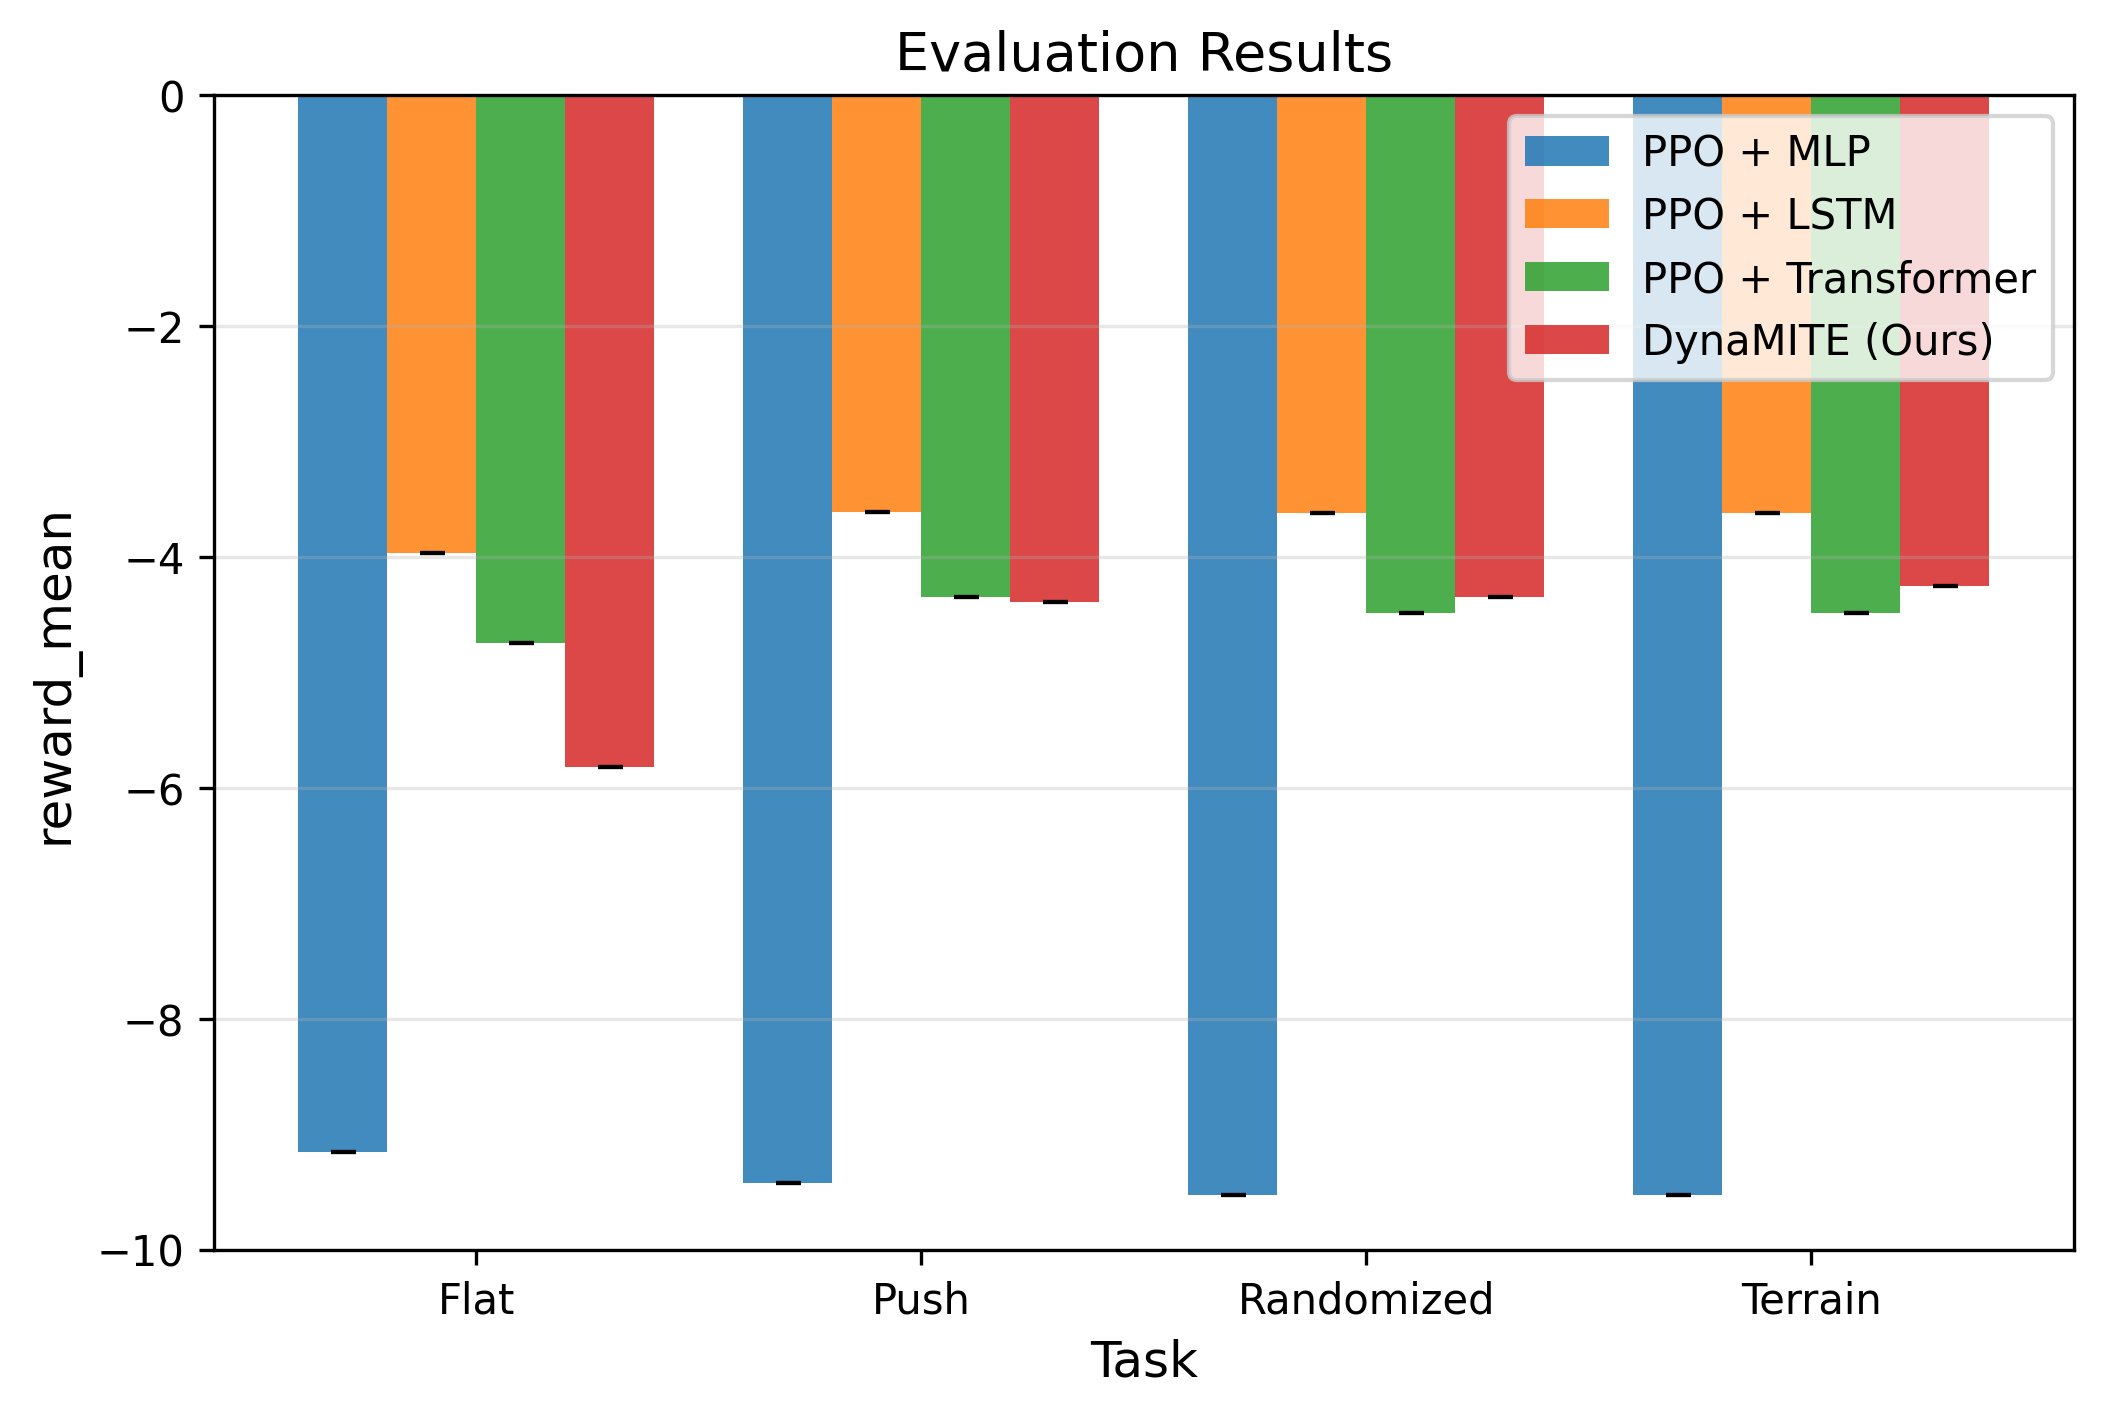
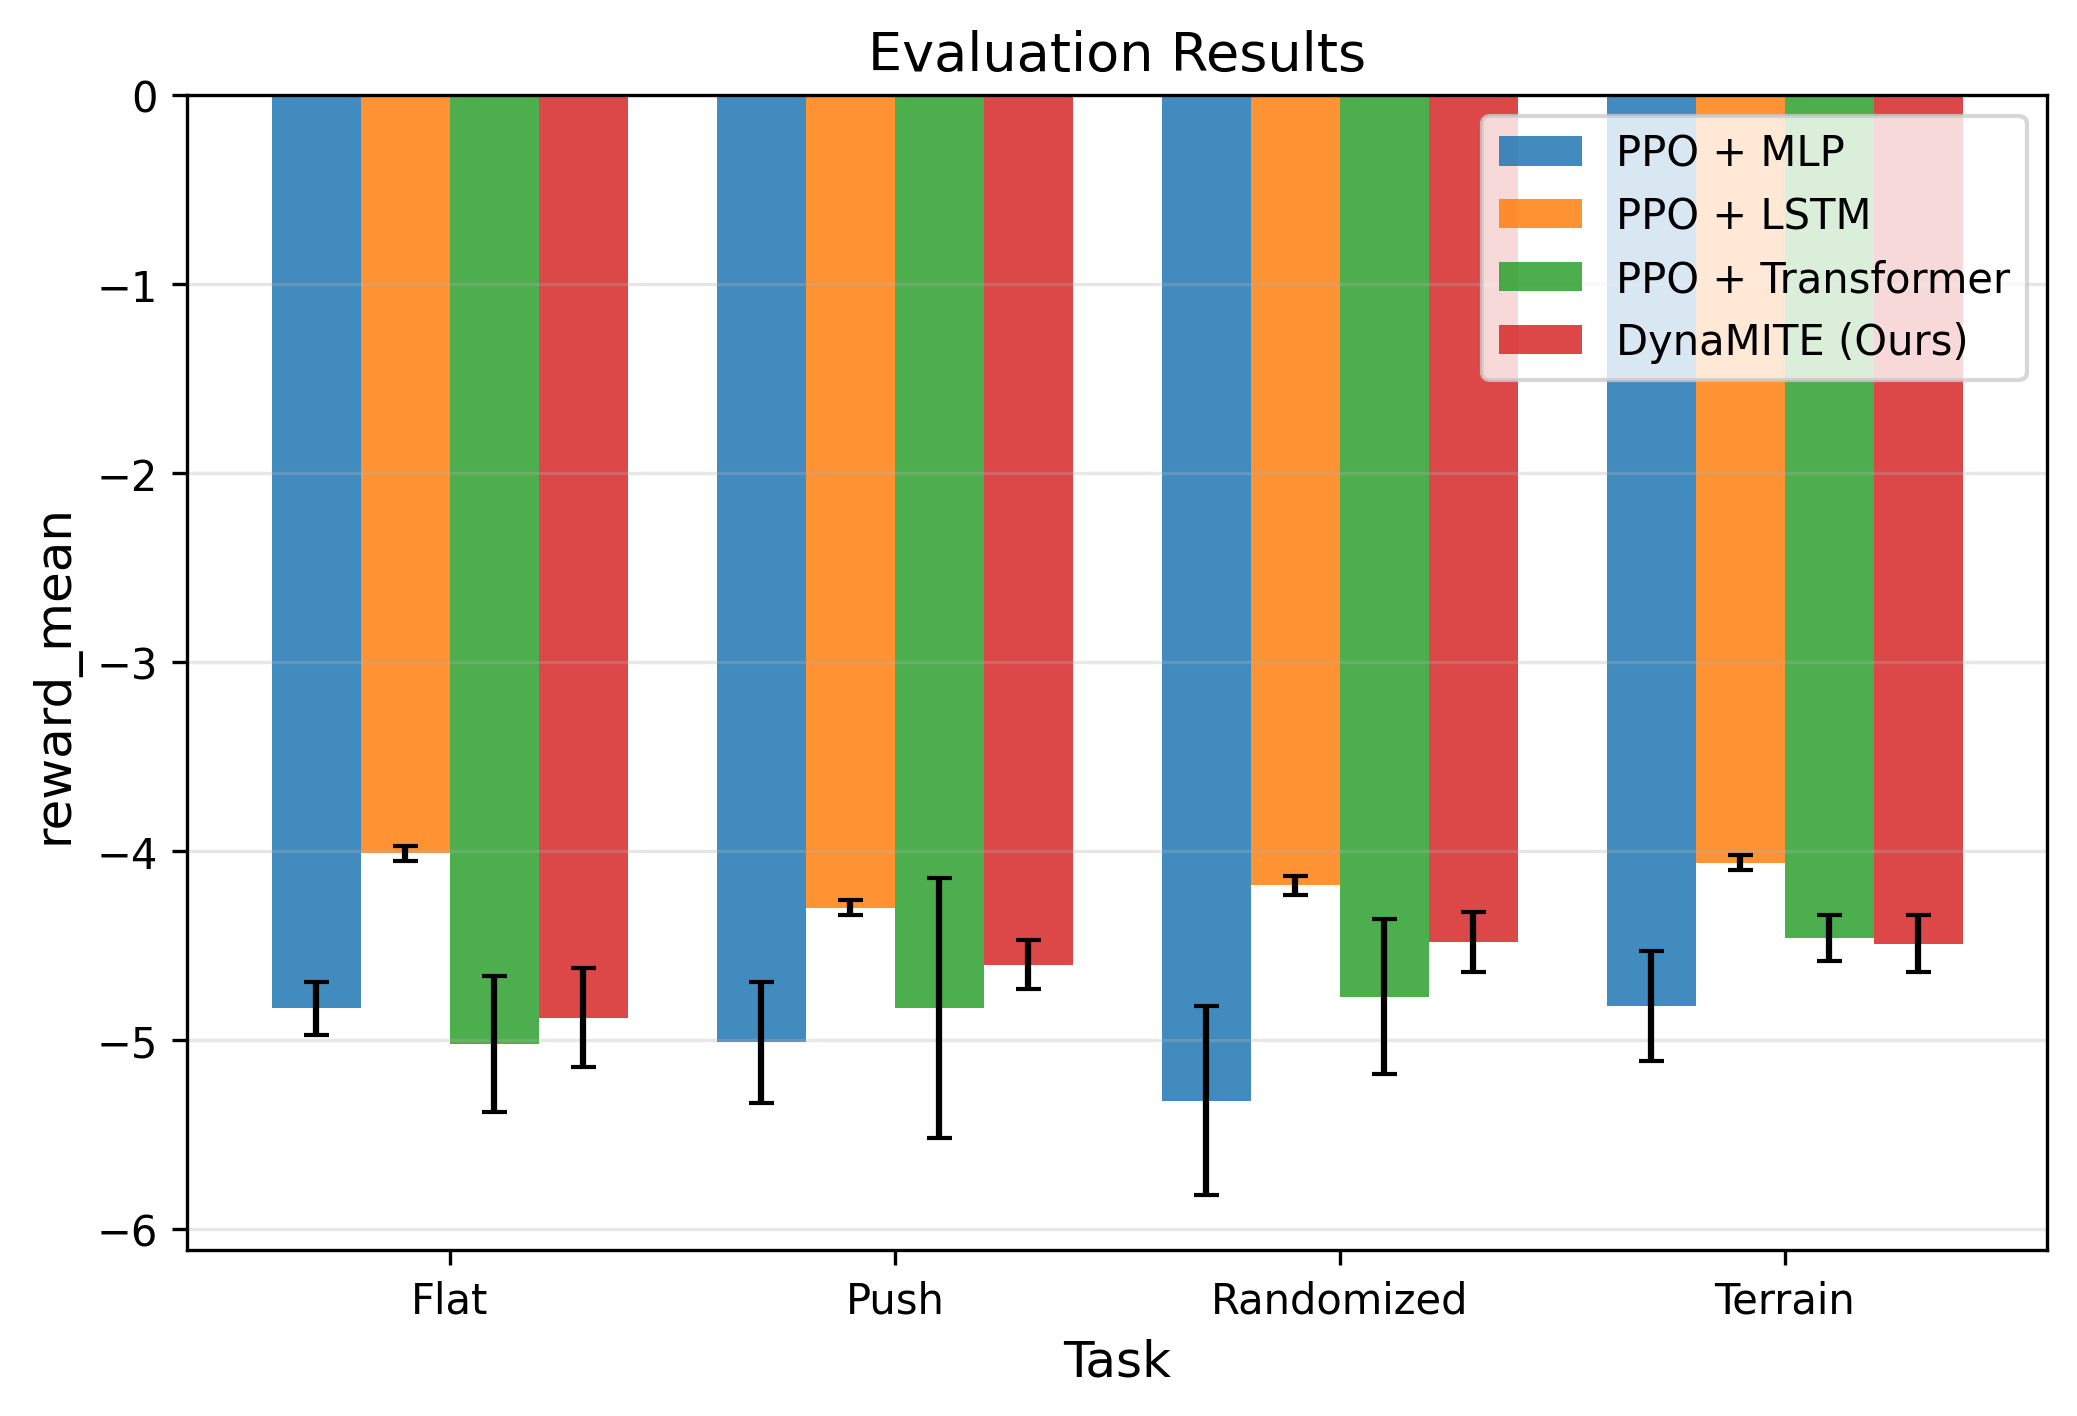
fixmismatch

diff --git a/scripts/plot_sweeps_multiseed.py b/scripts/plot_sweeps_multiseed.py
@@ -1,0 +1,109 @@
+#!/usr/bin/env python3
+"""
+Regenerate sweep_robustness_combined.png from multi-seed data.
+
+Uses results/sweeps_multiseed/ (3 seeds × 2 models × 3 sweep types)
+to match README's OOD sweep tables exactly.
+"""
+
+import json
+import sys
+from pathlib import Path
+
+sys.path.insert(0, str(Path(__file__).resolve().parent.parent))
+
+try:
+    import matplotlib
+    matplotlib.use("Agg")
+    import matplotlib.pyplot as plt
+    import numpy as np
+except ImportError:
+    print("ERROR: matplotlib and numpy required")
+    sys.exit(1)
+
+
+MODEL_LABELS = {"dynamite": "DynaMITE (Ours)", "lstm": "LSTM"}
+MODEL_COLORS = {"dynamite": "#d62728", "lstm": "#ff7f0e"}
+MODEL_MARKERS = {"dynamite": "D", "lstm": "s"}
+
+SWEEP_TITLES = {
+    "friction": "Friction Coefficient",
+    "action_delay": "Actuation Delay (steps)",
+    "push_magnitude": "Push Magnitude (m/s)",
+}
+
+
+def extract_x(values):
+    """Convert sweep values (may be ranges) to x-axis values."""
+    x = []
+    for v in values:
+        if isinstance(v, list):
+            x.append(v[0] if v[0] == v[1] else (v[0] + v[1]) / 2)
+        else:
+            x.append(v)
+    return x
+
+
+def main():
+    base_dir = Path("results/sweeps_multiseed")
+    output_dir = Path("figures")
+    output_dir.mkdir(exist_ok=True)
+
+    sweep_order = ["friction", "action_delay", "push_magnitude"]
+    models = ["dynamite", "lstm"]
+    seeds = [42, 43, 44]
+
+    fig, axes = plt.subplots(1, 3, figsize=(18, 5))
+
+    for idx, sweep_name in enumerate(sweep_order):
+        ax = axes[idx]
+
+        for model in models:
+            all_means = []
+            x_vals = None
+            for seed in seeds:
+                path = base_dir / sweep_name / f"{model}_seed{seed}" / f"sweep_{sweep_name}.json"
+                if not path.exists():
+                    print(f"  MISSING: {path}")
+                    continue
+                with open(path) as f:
+                    data = json.load(f)
+                means = [r["episode_reward/mean"] for r in data["results"]]
+                all_means.append(means)
+                if x_vals is None:
+                    x_vals = extract_x(data["values"])
+
+            if not all_means:
+                continue
+
+            arr = np.array(all_means)
+            avg = np.mean(arr, axis=0)
+            std = np.std(arr, axis=0, ddof=1)
+
+            label = MODEL_LABELS[model]
+            color = MODEL_COLORS[model]
+            marker = MODEL_MARKERS[model]
+
+            ax.plot(x_vals, avg, marker=marker, label=label, color=color,
+                    linewidth=2, markersize=7, markeredgecolor="white",
+                    markeredgewidth=0.5)
+            ax.fill_between(x_vals, avg - std, avg + std, alpha=0.15, color=color)
+
+        ax.set_xlabel(SWEEP_TITLES[sweep_name], fontsize=12)
+        ax.set_ylabel("Eval Reward" if idx == 0 else "", fontsize=12)
+        ax.set_title(f"OOD: {SWEEP_TITLES[sweep_name]}", fontsize=13)
+        ax.grid(True, alpha=0.3)
+        ax.spines["top"].set_visible(False)
+        ax.spines["right"].set_visible(False)
+        if idx == 2:
+            ax.legend(fontsize=10, loc="best")
+
+    plt.tight_layout()
+    out_path = output_dir / "sweep_robustness_combined.png"
+    plt.savefig(out_path, dpi=150, bbox_inches="tight")
+    plt.close()
+    print(f"Saved: {out_path}")
+
+
+if __name__ == "__main__":
+    main()

diff --git a/scripts/fix_aggregated_data.py b/scripts/fix_aggregated_data.py
@@ -1,0 +1,39 @@
+#!/usr/bin/env python3
+"""Rebuild results/aggregated/main_comparison.json from 5-seed eval_recomputed data."""
+
+import json
+import glob
+import os
+import numpy as np
+
+os.chdir(os.path.dirname(os.path.dirname(os.path.abspath(__file__))))
+print(f"Working dir: {os.getcwd()}")
+
+tasks = ["flat", "push", "randomized", "terrain"]
+models = ["mlp", "lstm", "transformer", "dynamite"]
+
+out = {}
+for task in tasks:
+    out[task] = {}
+    for model in models:
+        pattern = os.path.join("outputs", task, f"{model}_full", "seed_*", "*", "eval_recomputed", "eval_metrics.json")
+        files = sorted(glob.glob(pattern))
+        print(f"  {task}/{model}: pattern={pattern} -> {len(files)} files")
+        rewards = []
+        for f in files:
+            with open(f) as fh:
+                data = json.load(fh)
+            r = data.get("episode_reward/mean", data.get("reward_mean", data.get("mean_reward")))
+            if r is not None:
+                rewards.append(r)
+        if rewards:
+            m = round(float(np.mean(rewards)), 2)
+            s = round(float(np.std(rewards, ddof=1)), 2)
+            out[task][model] = {"mean": m, "std": s}
+            print(f"    -> {m} +/- {s} (n={len(rewards)})")
+
+os.makedirs("results/aggregated", exist_ok=True)
+with open("results/aggregated/main_comparison.json", "w") as f:
+    json.dump(out, f, indent=2)
+print("\nSaved results/aggregated/main_comparison.json")
+print(json.dumps(out, indent=2))
